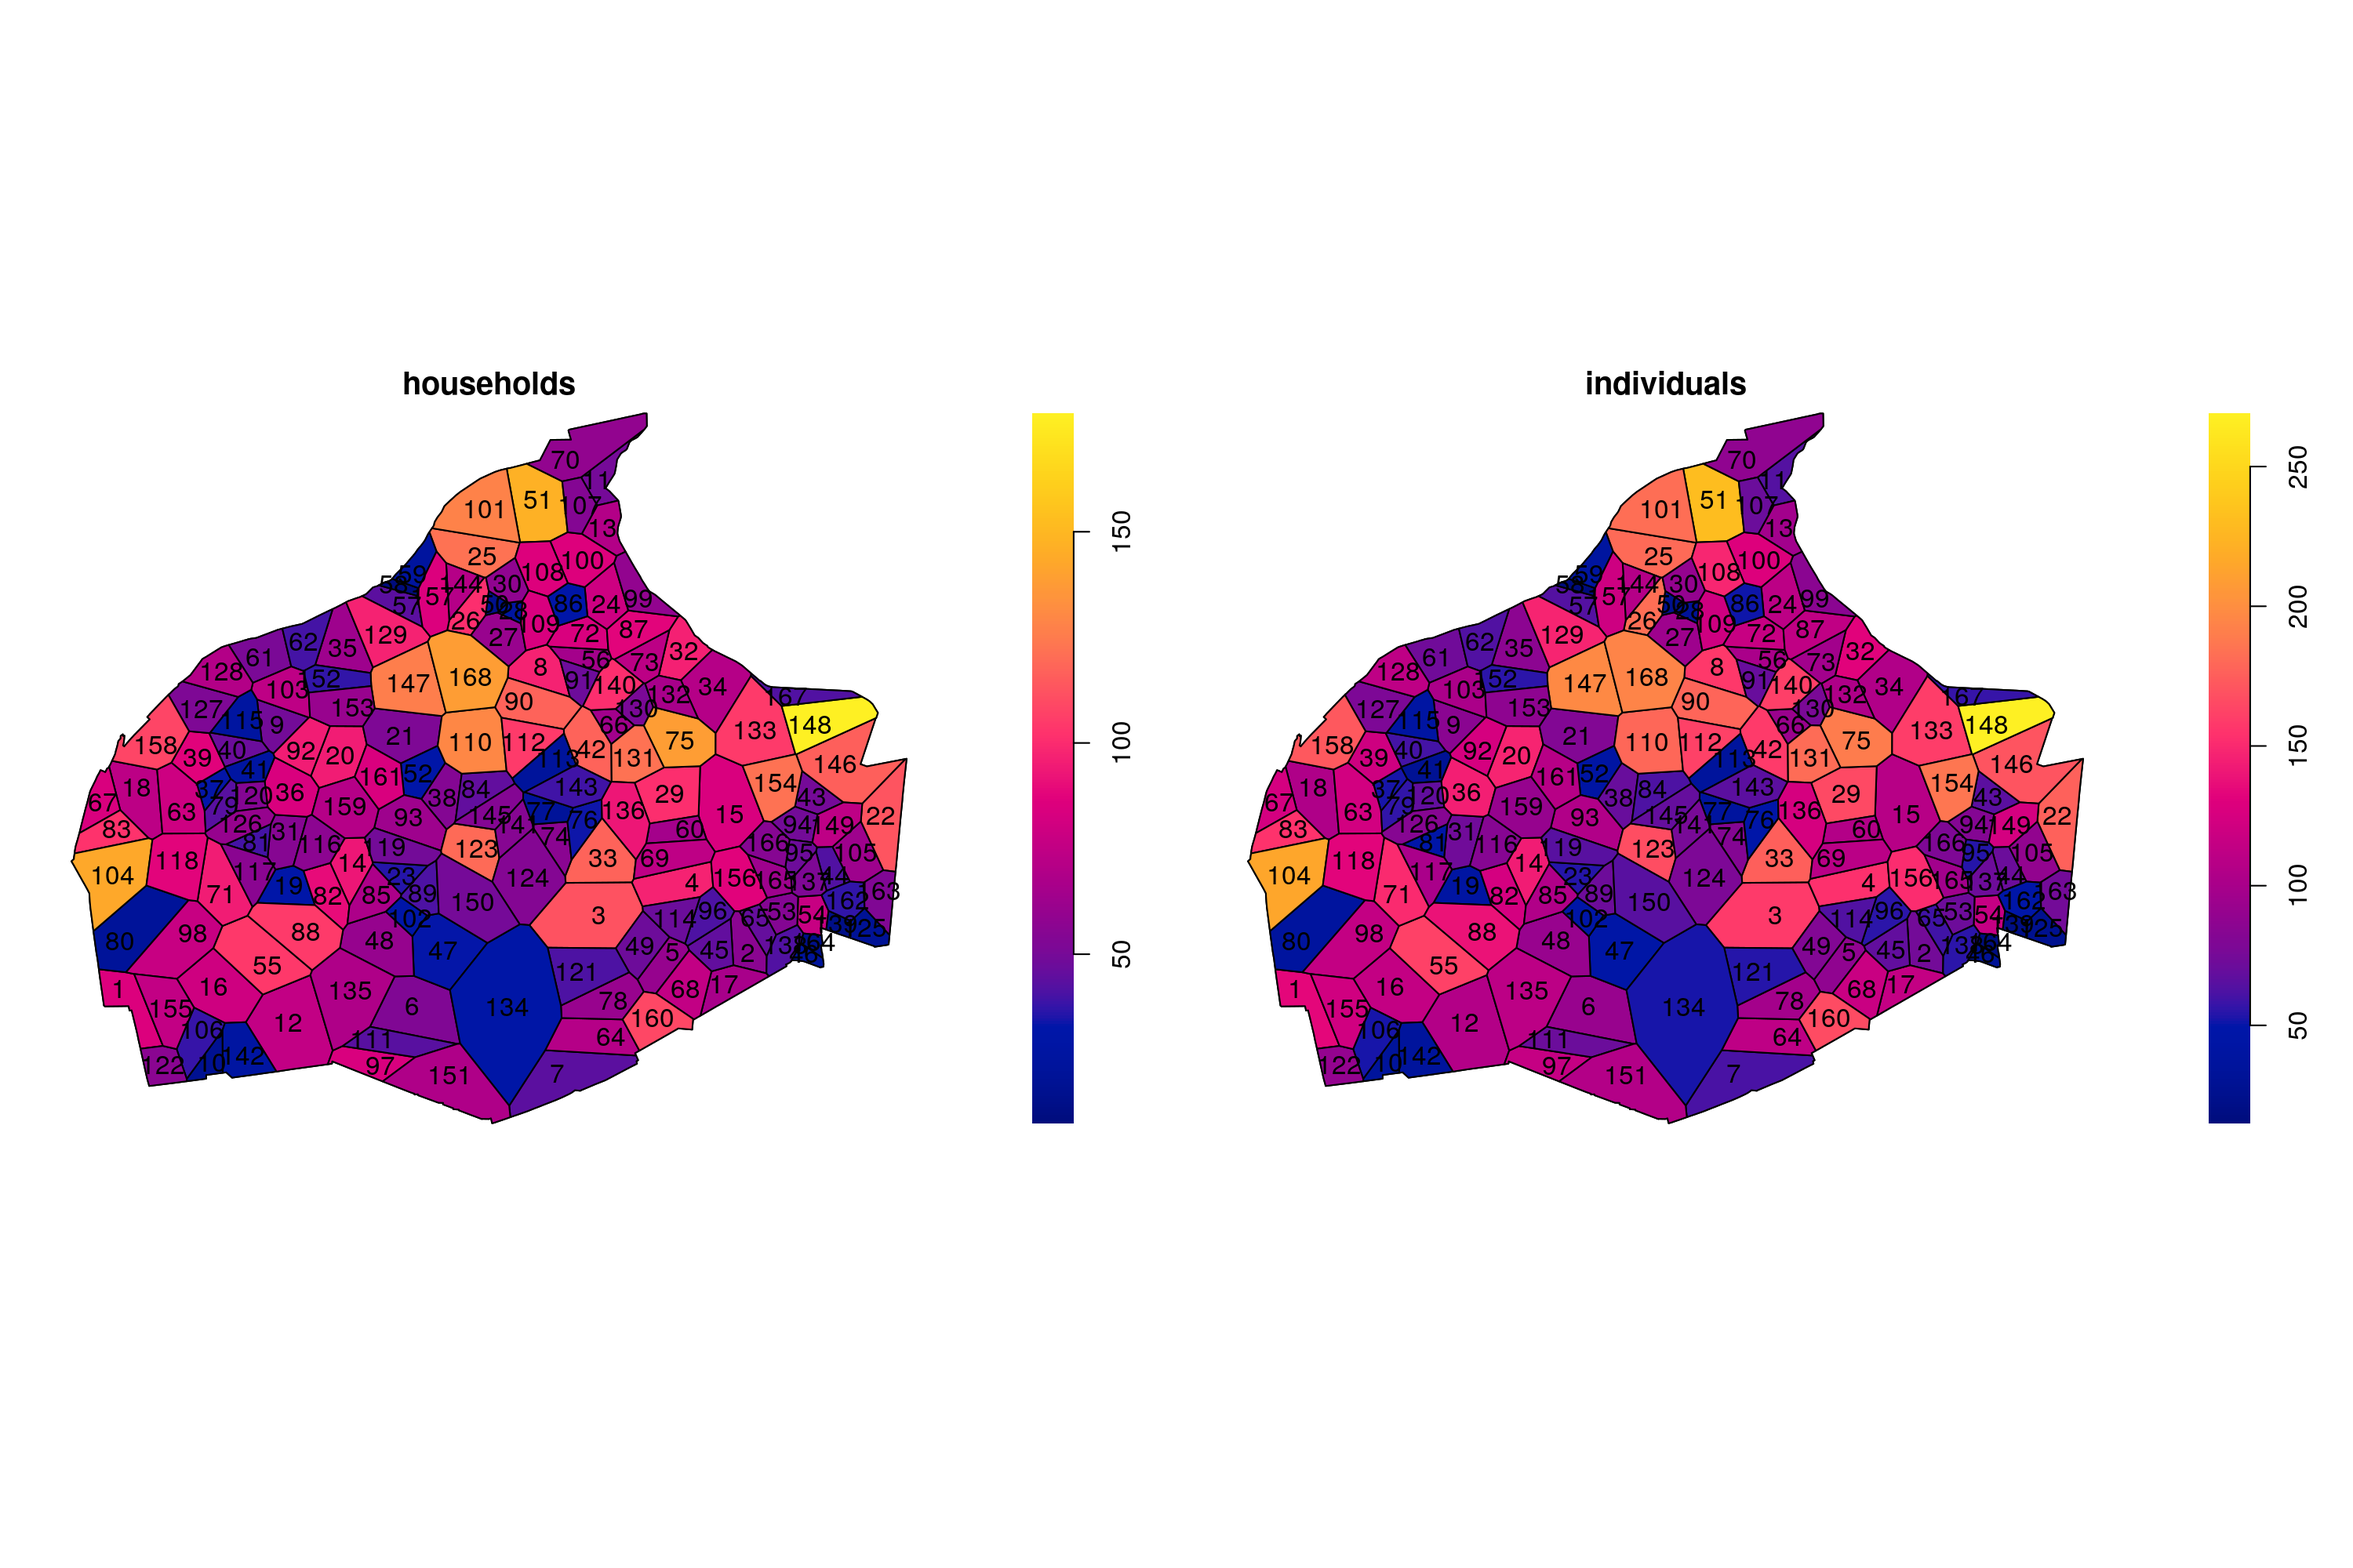
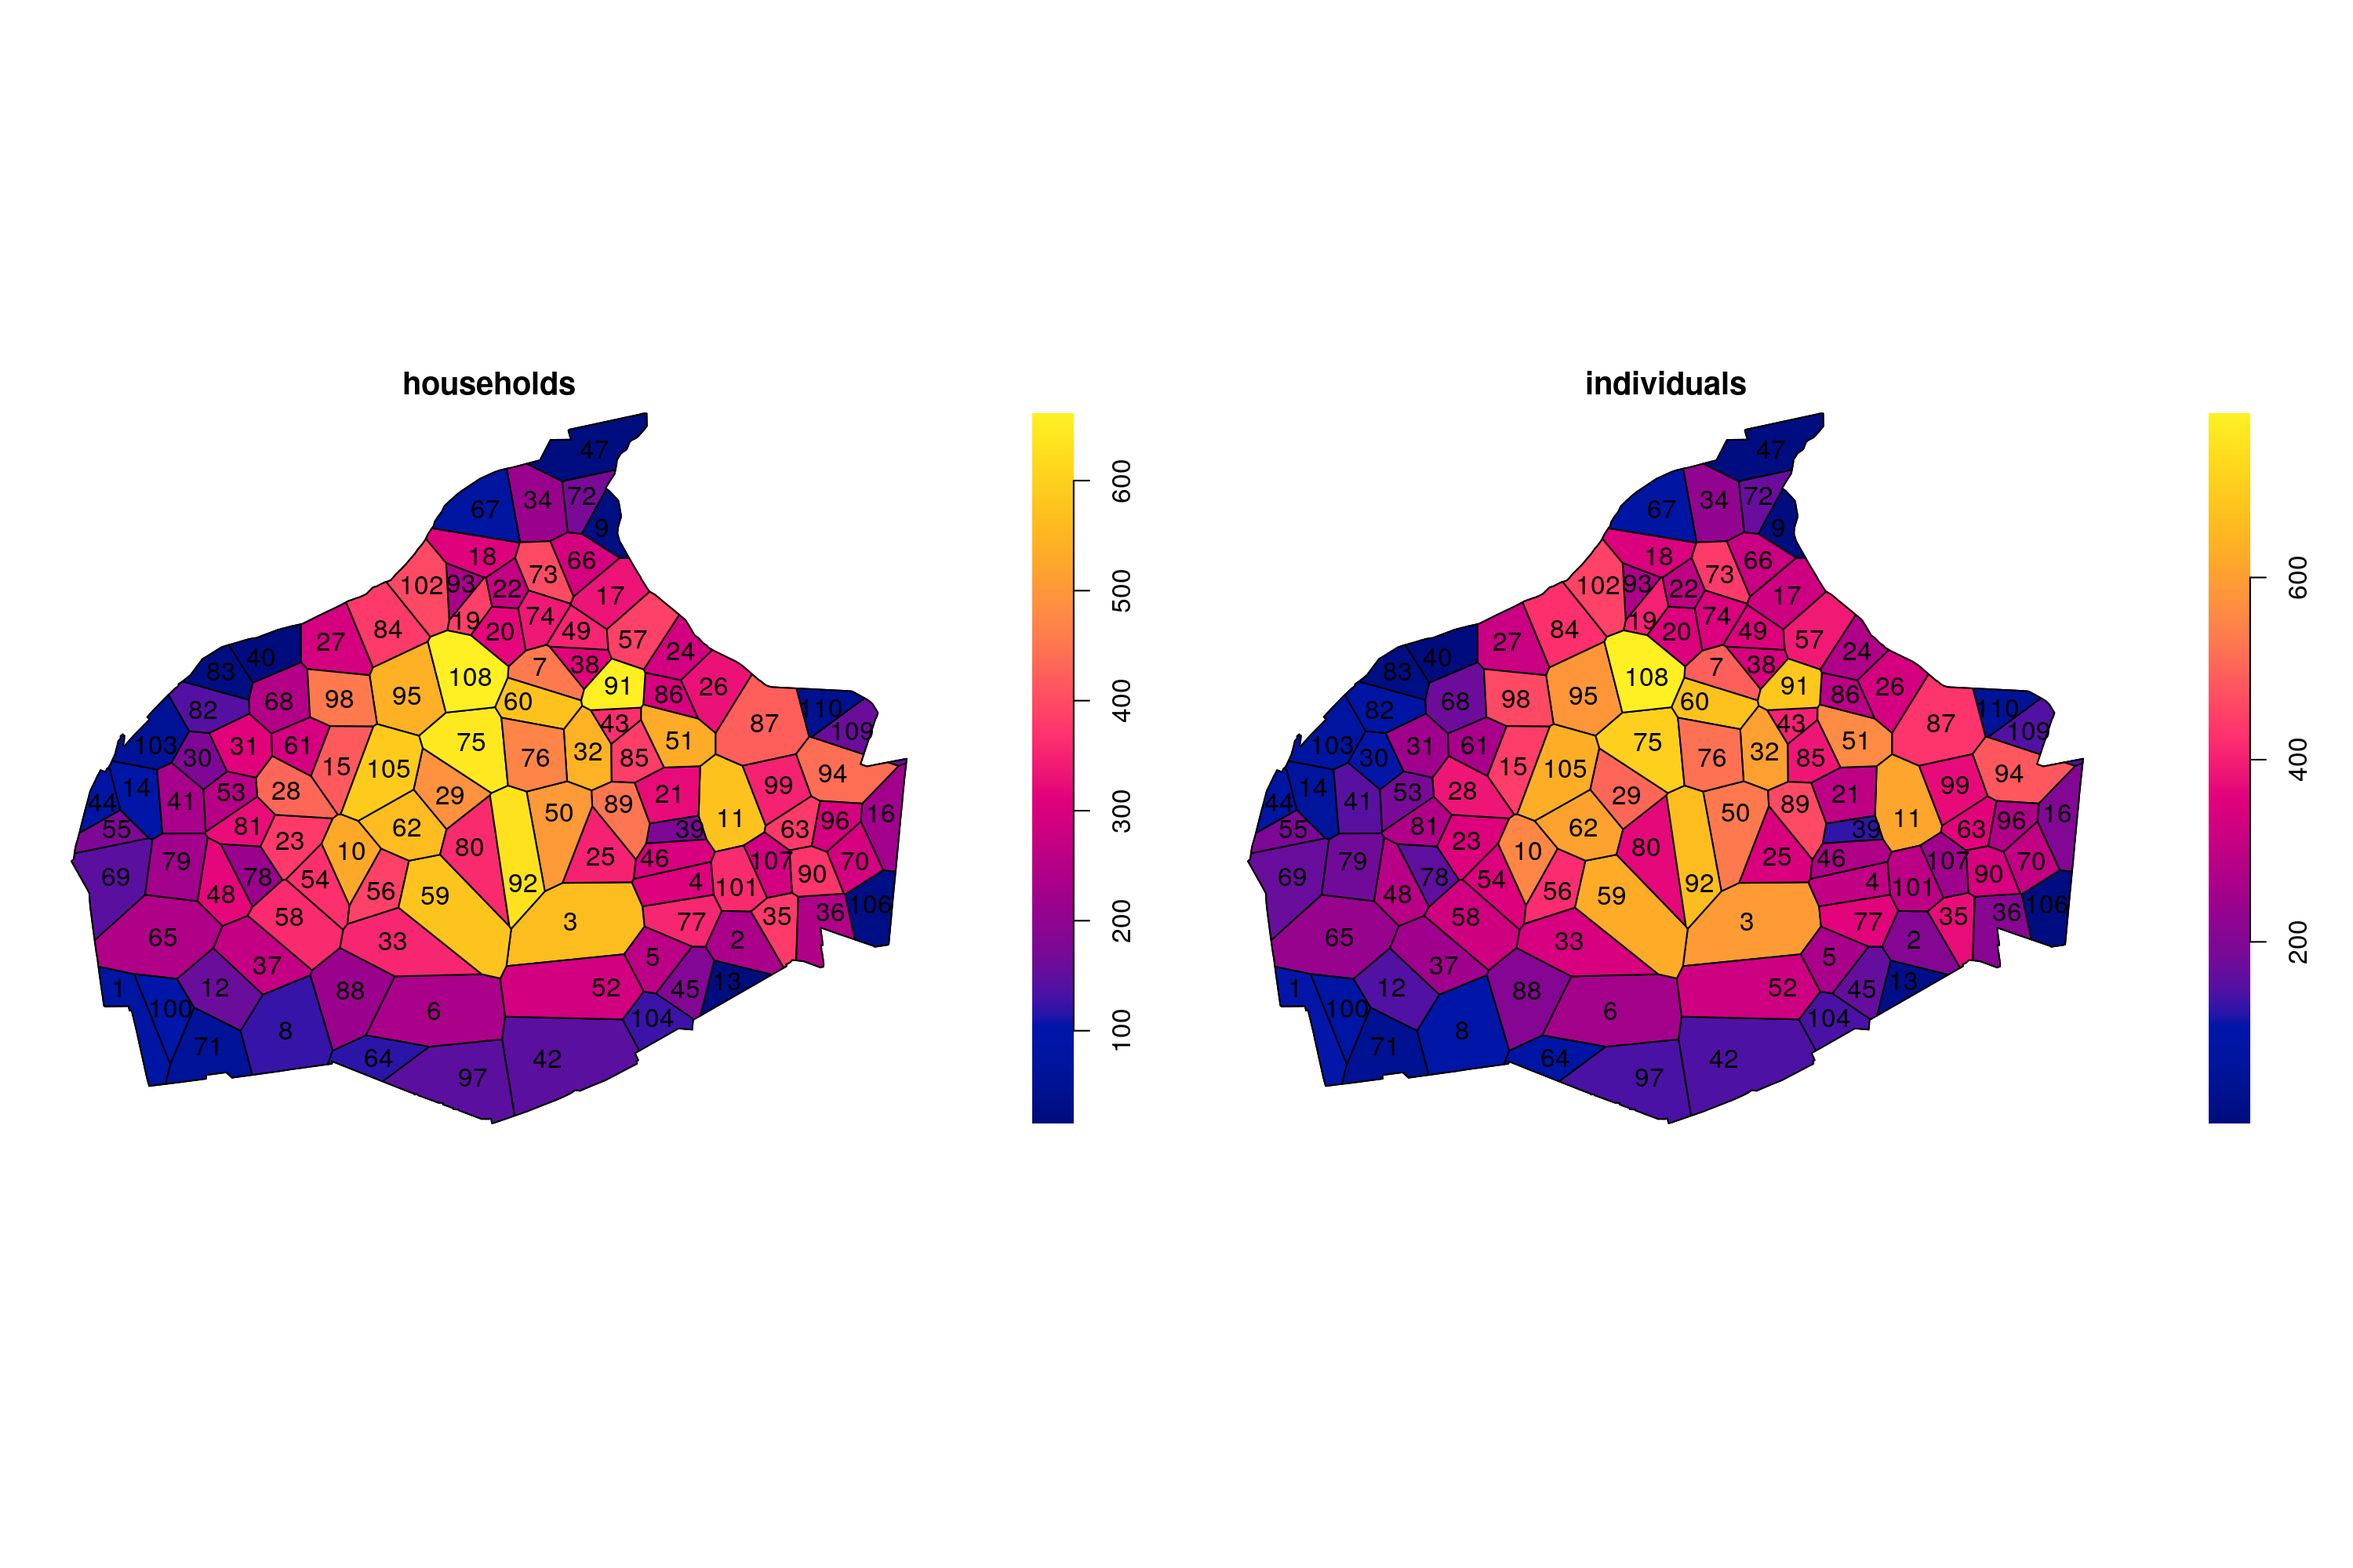
Update README and setup GitHub Actions.

diff --git a/README.md b/README.md
@@ -102,14 +102,9 @@ x <- aggrtess(frb, centers = cent, target = c(50, 100))
 plot(x)
 ```
 
-![](README_files/figure-gfm/unnamed-chunk-4-1.png)<!-- -->
-
-    ## Tessellation
-    ## Tiles are irregular polygons
-    ## 168 tiles (irregular windows)
-    ## Tessellation has 2 columns of marks: 'households' and 'individuals'
-    ## window: polygonal boundary
-    ## enclosing rectangle: [719497.1, 723631] x [6174592, 6178107] units
+![](README_files/figure-gfm/aggrtess-1.png)<!-- --> (We do not actually
+need to generate the centers first. We could replace `centers = cent`
+above by `centers = "index_shift"` to do it in a single function call.)
 
 **NOTE:** The resulting aggregation tesselllation typically doesn’t
 satisfy the target constraints at this point. This is handled below.
@@ -126,39 +121,28 @@ x <- delete_tile(x, 134)
 plot(x)
 ```
 
-![](README_files/figure-gfm/unnamed-chunk-5-1.png)<!-- -->
+![](README_files/figure-gfm/delete_tile-1.png)<!-- -->
 
-    ## Tessellation
-    ## Tiles are irregular polygons
-    ## 167 tiles (irregular windows)
-    ## Tessellation has 2 columns of marks: 'households' and 'individuals'
-    ## window: polygonal boundary
-    ## enclosing rectangle: [719497.1, 723631] x [6174592, 6178107] units
-
-Now the tiles around the previous tile 134 have all expanded (noticed
-all tile ids change when the tessellation is updated). To continue the
-process until all tiles are above the target we use `prune_aggrtess`
+Now the tiles around the previous tile 134 have all expanded (notice
+that tile ids can change when the tessellation is updated). To continue
+the process until all tiles are above the target we use `prune_aggrtess`
 (this probably takes some minutes depending on your machine):
 
 ``` r
 y <- prune_aggrtess(x)
+```
+
+``` r
 plot(y)
 ```
 
-![](README_files/figure-gfm/unnamed-chunk-6-1.png)<!-- -->
-
-    ## Tessellation
-    ## Tiles are irregular polygons
-    ## 109 tiles (irregular windows)
-    ## Tessellation has 2 columns of marks: 'households' and 'individuals'
-    ## window: polygonal boundary
-    ## enclosing rectangle: [719497.1, 723631] x [6174592, 6178107] units
+![](README_files/figure-gfm/unnamed-chunk-3-1.png)<!-- -->
 
 ## Splitting tiles (filling the tessellation)
 
 At this point the tessellation satisfies the requirements set in the
-target, but there may big tiles with large counts of the attributes. We
-can try to split e.g. tile 96 or the far right using `split_tile`:
+target, but there may be big tiles with large counts of the attributes.
+We can try to split e.g. tile 96 on the far right using `split_tile`:
 
 ``` r
 set.seed(4242) # For reproducibibily
@@ -175,29 +159,52 @@ z
 plot(z)
 ```
 
-![](README_files/figure-gfm/unnamed-chunk-7-1.png)<!-- -->
+![](README_files/figure-gfm/split_tile-1.png)<!-- -->
 
-    ## Tessellation
-    ## Tiles are irregular polygons
-    ## 110 tiles (irregular windows)
-    ## Tessellation has 2 columns of marks: 'households' and 'individuals'
-    ## window: polygonal boundary
-    ## enclosing rectangle: [719497.1, 723631] x [6174592, 6178107] units
+The split is done by proposing two new centers inside tile 96 (and
+removing the current center) and then recalculate the tessellation and
+aggregate the attributes. Very importantly this only effects tiles that
+share a border with tile 96. At the moment the only option for proposing
+two new point in the tile to be split is to sample among all the points
+in this tile. We could equally we propose two new points in any other
+way we like – there is no reasons for the tile centers to be sampled
+among the points in the point pattern apart from convenience.
 
 To automatically choose tiles for splitting we need to know which one
 potentially could be split, which we do the following way.
 
-For each tile we define the neighbourhood as the tile itself together
-with the bordering tiles. The neighbourhood of tile 36 in the bottom
-right hand corner of `z` above is: \(\{36,35,90,70,106\}\). Based on the
-neighbourhood we can calculate the minimum needed counts to have a
-neighbourhood of this size. A neighbourhood of size 5 requires a count
-of at least `5*target`. We define the excess as the amount the actual
-count in the neighbourhood exceeds this minimum. If the excess is larger
-than the target there could potentially be introduced an extra tile in
-the neighbourhood and we suggest to split the center tile (36 in this
-case). An adjustment parameter is provided to make sure the excess is
-somewhat above the target so the split is not too difficult.
+For each tile we define its neighbourhood (or cluster) as the tile
+itself together with the bordering tiles. The neighbourhood of tile 36
+in the bottom right hand corner of `z` above is:
+\(\{36,35,90,70,106\}\). Based on the neighbourhood we can calculate the
+minimum needed counts to have a neighbourhood of this size. A
+neighbourhood of size 5 requires a count of at least `5*target`. We
+define the excess as the amount the actual count in the neighbourhood
+exceeds this minimum. If the excess is larger than the target there
+could potentially be introduced an extra tile in the neighbourhood and
+we suggest to split the center tile (36 in this case). An adjustment
+parameter is provided to make sure the excess is somewhat above the
+target so the split is not too difficult.
+
+To plot the excess in each neighbourhood (cluster) accociated with a
+tile we do:
+
+``` r
+plot(z, what = "excess")
+```
+
+![](README_files/figure-gfm/unnamed-chunk-4-1.png)<!-- -->
+
+Clearly many tiles have an excess of hundreds of points compared to the
+minimum requirement with the given number of tiles in the neighbourhood.
+It may be better to see the average excess by dividing by the number of
+tiles in the neighbourhood, by adding `relative = TRUE`:
+
+``` r
+plot(z, what = "excess", relative = TRUE)
+```
+
+![](README_files/figure-gfm/unnamed-chunk-5-1.png)<!-- -->
 
 The function `fill_aggrtess` runs trough the tessellation in order from
 the largest excess and tries to split each tile with excess larger than
@@ -223,16 +230,10 @@ autofill
 plot(autofill)
 ```
 
-![](README_files/figure-gfm/unnamed-chunk-8-1.png)<!-- -->
+![](README_files/figure-gfm/unnamed-chunk-6-1.png)<!-- -->
 
-    ## Tessellation
-    ## Tiles are irregular polygons
-    ## 136 tiles (irregular windows)
-    ## Tessellation has 2 columns of marks: 'households' and 'individuals'
-    ## window: polygonal boundary
-    ## enclosing rectangle: [719497.1, 723631] x [6174592, 6178107] units
-
-If we want to try to split a specific tile we may still do so:
+If we want to try to split a specific tile such as tile 1 we may still
+do so:
 
 ``` r
 final <- split_tile(autofill, 1)
@@ -248,14 +249,20 @@ final
 plot(final)
 ```
 
-![](README_files/figure-gfm/unnamed-chunk-9-1.png)<!-- -->
+![](README_files/figure-gfm/unnamed-chunk-7-1.png)<!-- -->
 
-    ## Tessellation
-    ## Tiles are irregular polygons
-    ## 137 tiles (irregular windows)
-    ## Tessellation has 2 columns of marks: 'households' and 'individuals'
-    ## window: polygonal boundary
-    ## enclosing rectangle: [719497.1, 723631] x [6174592, 6178107] units
+The average excess is also much better now:
+
+``` r
+plot(final, what = "excess", relative = TRUE)
+```
+
+![](README_files/figure-gfm/unnamed-chunk-8-1.png)<!-- -->
+
+We may think that tile 79 is a good candidate for splitting, but looking
+at the counts (not excess) above reveals that the neighbours 12 and 64
+which would likely become smaller by a split of 79 are close to the
+target boundary and it wouldn’t be easy to get the split accepted.
 
 ## Exporting to `sf` and viewing with `mapview`
 
